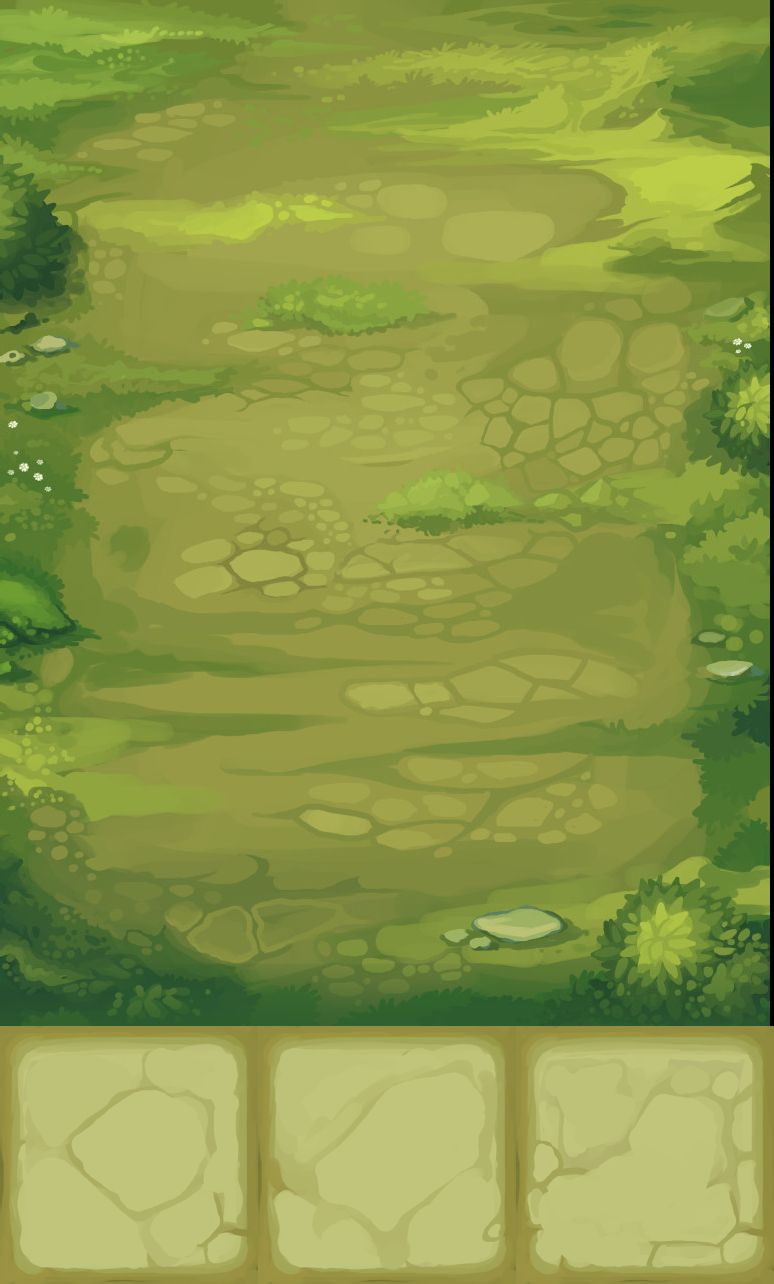
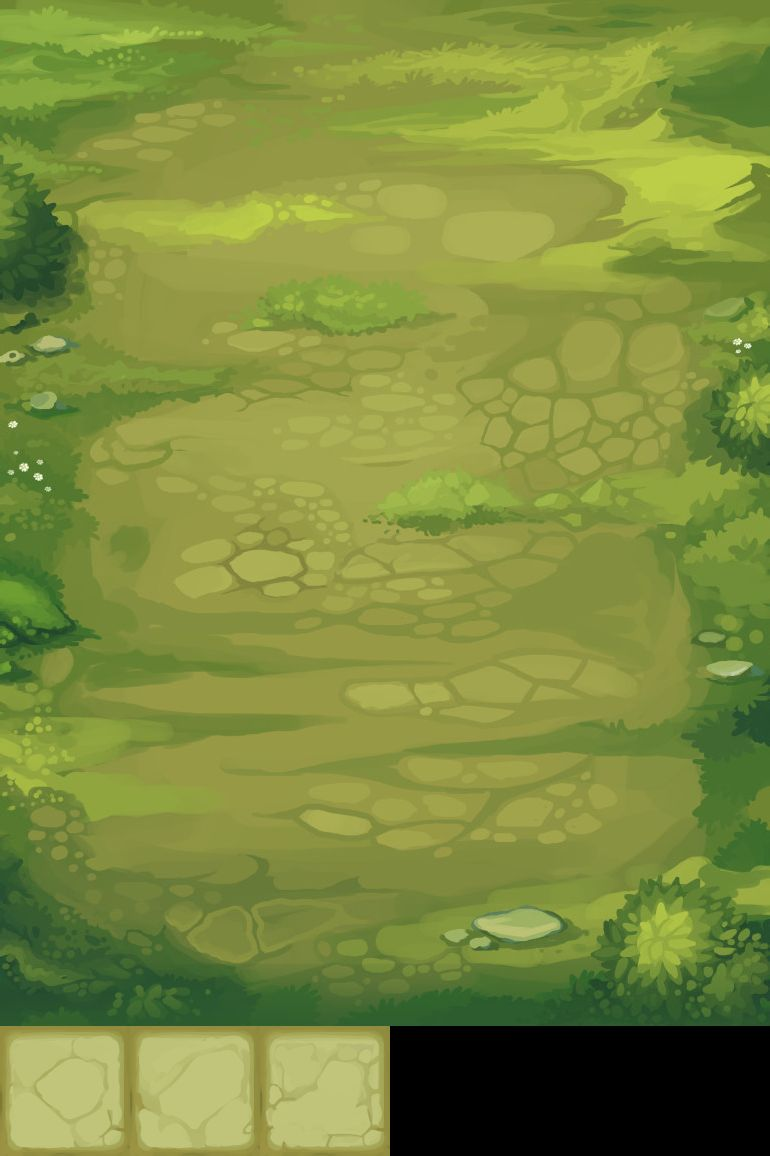
Bg as Canvas Texture

diff --git a/src/scenes/bg-scene.js b/src/scenes/bg-scene.js
@@ -1,4 +1,12 @@
 import RLC from '../services/responsive-layout-calculator';
+import { rndArrayItem } from '../utils/general-utils';
+
+const TILE_SIZE = 128;
+const tileKeys = [
+  'grassland_bricks_01.png',
+  'grassland_bricks_02.png',
+  'grassland_bricks_03.png',
+];
 
 export default class BGScene extends Phaser.Scene {
   constructor() {
@@ -12,7 +20,11 @@ export default class BGScene extends Phaser.Scene {
 
     this.playScene = data.playScene;
 
-    this.bgImg = this.add.image(RLC.CENTER_X, RLC.CENTER_Y, 'jpg_atlas', 'grassland_bg.jpg');
+    const canvasTexture = this.textures.createCanvas('bg_tile', 768, 1024);
+    this.canvasTexture = canvasTexture;
+    // this.drawCanvasBg();
+
+    this.bg_tile = this.add.image(RLC.CENTER_X, RLC.CENTER_Y, 'bg_tile');
 
     // Events
     // this.events.on('add-points', this.setScore, this);
@@ -31,9 +43,87 @@ export default class BGScene extends Phaser.Scene {
     this.children.list.forEach(children => { if (children.resize) children.resize(); });
     this.mainCam.setZoom(RLC.SCALE);
     this.mainCam.centerOn(RLC.CENTER_X, RLC.CENTER_Y);
+    this.drawCanvasBg();
   }
 
   update(time, delta) {
     this.children.list.forEach(children => { if (children.update) children.update(); });
+  }
+
+  ceilTiledSize(dimension) {
+    return Math.ceil(dimension / (TILE_SIZE * 2)) * (TILE_SIZE * 2);
+  }
+
+  drawCanvasBg() {
+    const { canvasTexture } = this;
+    const width = RLC.TOTAL_WIDTH;
+    const height = RLC.TOTAL_HEIGHT;
+    const toGridDimensions = {
+      x: this.ceilTiledSize(width),
+      y: this.ceilTiledSize(height),
+    };
+    if (toGridDimensions.x > this.bg_tile.width || toGridDimensions.y > this.bg_tile.height) {
+      const atlasTexture = this.textures.get('jpg_atlas');
+      const bgImgTexture = atlasTexture.get('grassland_bg.jpg');
+      const brickImgTextures = tileKeys.map(value => atlasTexture.get(value));
+
+      // const toGridDimensions = {
+      //   x: this.ceilTiledSize(width),
+      //   y: this.ceilTiledSize(height),
+      // };
+      // console.log(toGridDimensions)
+
+      canvasTexture.clear();
+      canvasTexture.setSize(toGridDimensions.x, toGridDimensions.y);
+
+      const canvasMidPoint = {
+        x: toGridDimensions.x / 2,
+        y: toGridDimensions.y / 2,
+      };
+
+      const bgImgPosition = {
+        x: canvasMidPoint.x - (bgImgTexture.width / 2),
+        y: canvasMidPoint.y - (bgImgTexture.height / 2),
+      };
+
+      canvasTexture.drawFrame('jpg_atlas', 'grassland_bg.jpg', bgImgPosition.x, bgImgPosition.y);
+      const drawn = {
+        width: 768,
+        height: 1024,
+      };
+
+      const xPos = {
+        left: canvasMidPoint.x - bgImgTexture.halfWidth - TILE_SIZE,
+        right: canvasMidPoint.x + bgImgTexture.halfWidth,
+      };
+      while (drawn.width < width) {
+        const vTileAmount = toGridDimensions.y / TILE_SIZE;
+        for (let i = 0; i < vTileAmount; i++) {
+          canvasTexture.drawFrame('jpg_atlas', rndArrayItem(tileKeys), xPos.left, i * TILE_SIZE);
+          canvasTexture.drawFrame('jpg_atlas', rndArrayItem(tileKeys), xPos.right, i * TILE_SIZE);
+        }
+        xPos.left -= TILE_SIZE;
+        xPos.right += TILE_SIZE;
+        drawn.width += TILE_SIZE * 2;
+      }
+
+      const yPos = {
+        top: canvasMidPoint.y - bgImgTexture.halfHeight - TILE_SIZE,
+        bottom: canvasMidPoint.y + bgImgTexture.halfHeight,
+      };
+      while (drawn.height < height) {
+        const hTileAmount = toGridDimensions.x / TILE_SIZE;
+        console.log(hTileAmount);
+        for (let i = 0; i < hTileAmount; i++) {
+          canvasTexture.drawFrame('jpg_atlas', rndArrayItem(tileKeys), i * TILE_SIZE, yPos.top);
+          canvasTexture.drawFrame('jpg_atlas', rndArrayItem(tileKeys), i * TILE_SIZE, yPos.bottom);
+        }
+        yPos.top -= TILE_SIZE;
+        yPos.bottom += TILE_SIZE;
+        drawn.height += TILE_SIZE * 2;
+      }
+      canvasTexture.refresh();
+      this.bg_tile.setTexture('bg_tile');
+    }
   }
 }
